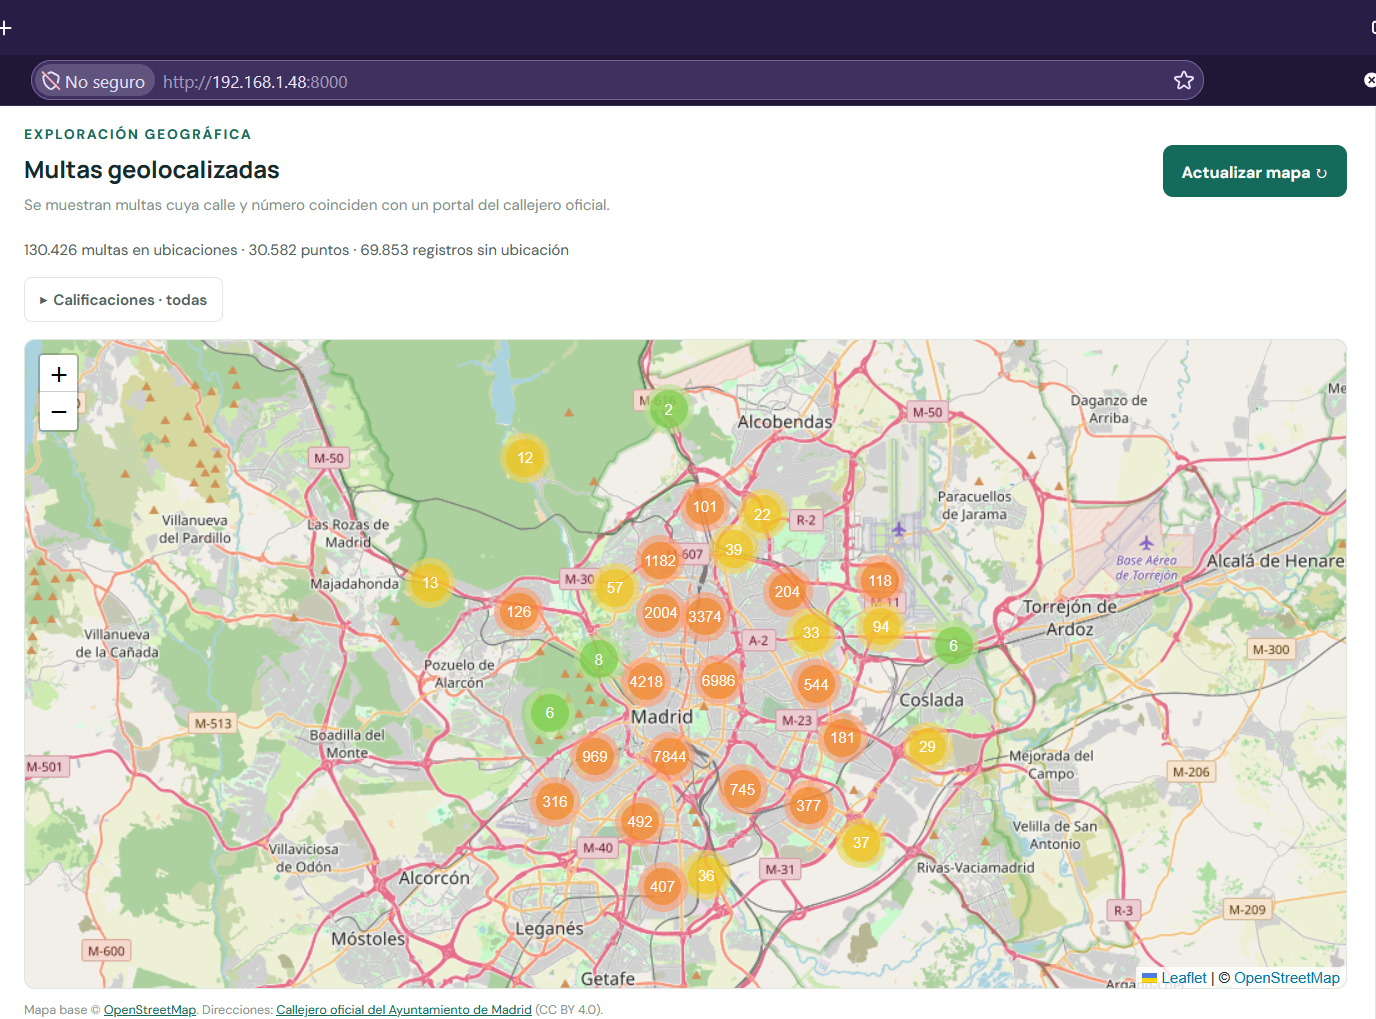
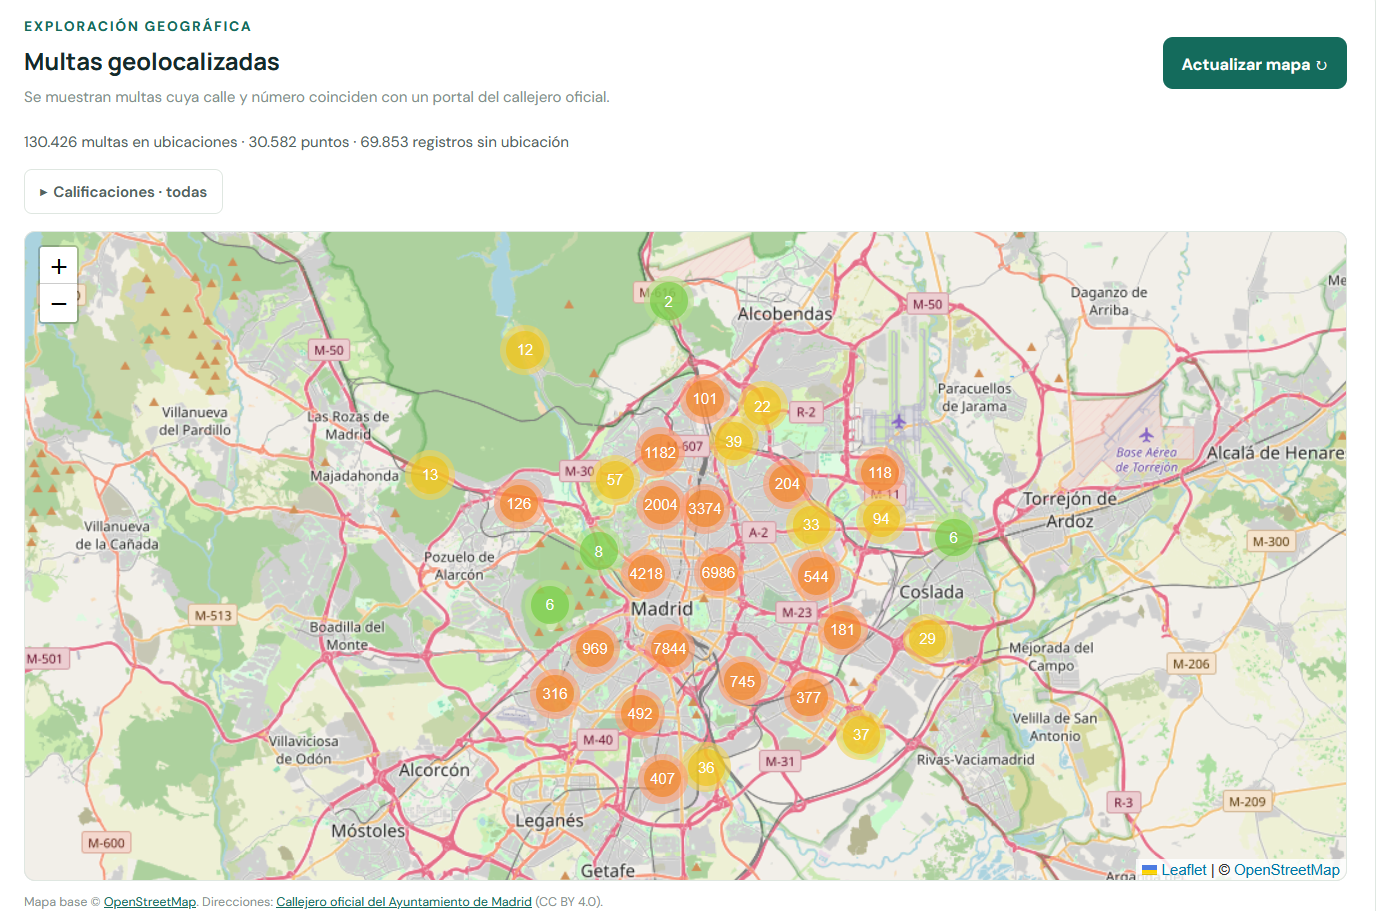
Estructura e implementación inicial

diff --git a/README.md b/README.md
@@ -79,6 +79,6 @@ Abre `http://127.0.0.1:8000`. Para acceder desde otro dispositivo de la misma re
 uv run pytest --doctest-modules --cov=traficfines --cov=webapp.server --cov-report=term-missing --cov-report=html
 ```
 
-Los cuardernos de `notebooks/` son material complementario. Para abrirlos, instala Jupyter por separado o impórtalos en Google Colab o en tu IDE.
+Los cuadernos de `notebooks/` son material complementario. Para abrirlos, instala Jupyter por separado o impórtalos en Google Colab o en tu IDE.
 
 **Datos:** Portal de Datos Abiertos del Ayuntamiento de Madrid · Licencia [CC BY 4.0](https://creativecommons.org/licenses/by/4.0/).
